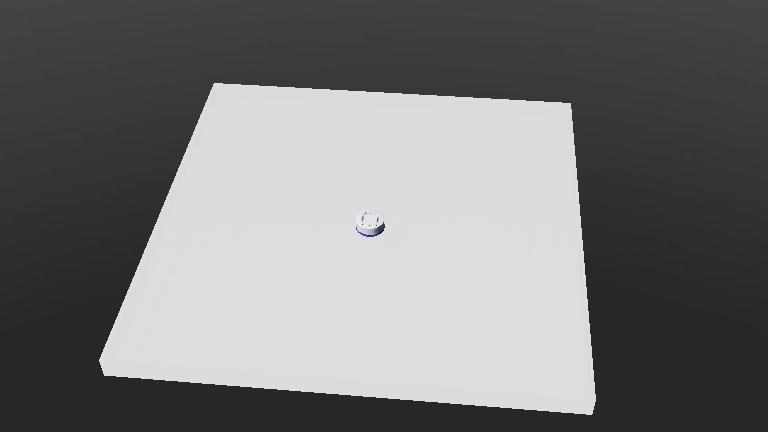
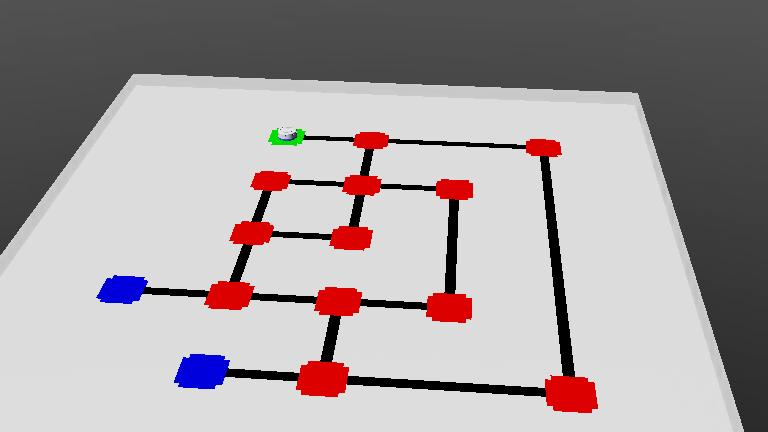
D - line follower v1

diff --git a/dani's folder no entry/controllers/my_controller/my_controller.py b/dani's folder no entry/controllers/my_controller/my_controller.py
@@ -64,13 +64,153 @@ left_wheel_sensor.enable(timestep)
 right_wheel_sensor = robot.getDevice("right wheel sensor")
 right_wheel_sensor.enable(timestep)
 
+cam_width = camera.getWidth()
+cam_height = camera.getHeight()
+
+def get_position(y = cam_height-2): 
+    # gets the current position on the grid based on the colours
+    ## y = cam_height - 2 is used to detect the robot's current position
+    ## y = 300 is used to detect what is ahead of the robot
+        
+    t = 0
+    r = 0
+    g = 0
+    b = 0
+    
+    img = camera.getImage()
+    
+    for x in range(cam_width // 3, cam_width // 3 * 2): # runs through the centre pixels
+        t += 1
+        r += camera.imageGetRed(img, cam_width, x, y)
+        g += camera.imageGetGreen(img, cam_width, x, y)
+        b += camera.imageGetBlue(img, cam_width, x, y)
+    
+    r = r / t
+    g = g / t
+    b = b / t
+    
+    if r < 96 and b < 96 and g > 256-96:
+        return "green"
+    if r > 256-96 and b < 96 and g < 96:
+        return "red"
+    if r < 96 and b > 256-96 and g < 96:
+        return "blue"
+    if r < 96 and b < 96 and g < 96:
+        return "black"
+    return "white"
+    
+def adjustment():
+    # gets which side has more black and so the robot should reallign
+    
+    l = 0
+    r = 0
+    
+    img = camera.getImage()
+    
+    for x in range(cam_width // 4, cam_width // 4 * 3):
+        if x < cam_width // 2:
+            l += camera.imageGetGray(img, cam_width, x, 400)
+        if x > cam_width // 2:
+            r += camera.imageGetGray(img, cam_width, x, 400)
+            
+    return l, r
+
 ## Main ##
 
-once = 0
+state = "TURN"
+# "state" can be one of the following values:
+## "FOLLOW" - following a black line
+## "TURN" - changing direction at a spot
+## "STOPPING" - transition from FOLLOW to TURN
+## "IDLE" - unmoving
+
+instructions = "FRLRRLRS"
+# "instructions" can be made up of the following characters:
+## "F" - move forwards at a spot
+## "R" - turn right at a spot
+## "L" - turn left at a spot
+## "U" - turn around at a spot (u-turn, treated as being two right turns)
+## "S" - stop at a spot
+
+current_instruction = 0
+
+turns = 0
+
+robot.step(timestep)
+ahead = get_position(300)
+position = get_position()
 
 while robot.step(timestep) != -1:
-
-    if once == 0:
-        once = 1
+    
+    if state == "FOLLOW":
+        l, r = adjustment()
+        
+        l_dif = l - 1035
+        r_dif = r - 1035
+        
+        if r_dif != 0 and l_dif != 0:
+    
+            left_wheel_motor.setVelocity(8 + (l_dif / 1000))
+            right_wheel_motor.setVelocity(8 + (r_dif / 1000))
+            
+        else:
+            left_wheel_motor.setVelocity(10)
+            right_wheel_motor.setVelocity(10)
+        
+        if ahead != "black" and ahead != "white":
+            state = "STOPPING"
+        
+    if state == "STOPPING":
+        if position != "black":
+            left_wheel_motor.setVelocity(5)
+            right_wheel_motor.setVelocity(5)
+            spot_edge_check = get_position(310)
+            if (spot_edge_check == "black" or spot_edge_check == "white"):
+                left_wheel_motor.setVelocity(0)
+                right_wheel_motor.setVelocity(0)
+                turns = 0 
+                state = "TURN"
+        else:
+            left_wheel_motor.setVelocity(7.5)
+            right_wheel_motor.setVelocity(7.5)
+        
+    if state == "TURN":
+    
+        ci = instructions[current_instruction] # easy access to the current instruction
+    
+        if ci == "S": # if instruction is to stop, change to the idle state
+            state = "IDLE"
+            current_instruction += 1
+            
+        if ci == "F": # if instruction is to go forwards, change to the follow state
+            state = "FOLLOW"
+            current_instruction += 1
+            
+        if ci == "R" or ci == "U": # if instruction is to turn right or uturn, increases motor speed to do so
+        
+            left_wheel_motor.setVelocity(10)
+            right_wheel_motor.setVelocity(-10)
+            
+        if ci == "L": # if instruction is to turn left, increases motor speed to do so
+        
+            left_wheel_motor.setVelocity(-10)
+            right_wheel_motor.setVelocity(10)
+            
+        if ci == "R" or ci == "U" or ci == "L": # for any still-turning instruction
+            
+            new_ahead = get_position(300)
+            if new_ahead != ahead and new_ahead == "black":
+                turns += 1
+                
+                if (turns == 1 and (ci == "R" or ci == "L")) or (turns == 2 and ci == "U"):
+                    left_wheel_motor.setVelocity(0)
+                    right_wheel_motor.setVelocity(0)
+                    
+                    state = "FOLLOW"
+                    current_instruction += 1
+    
+    ahead = get_position(300)
+    position = get_position()
+   
 
 # Enter here exit cleanup code.
